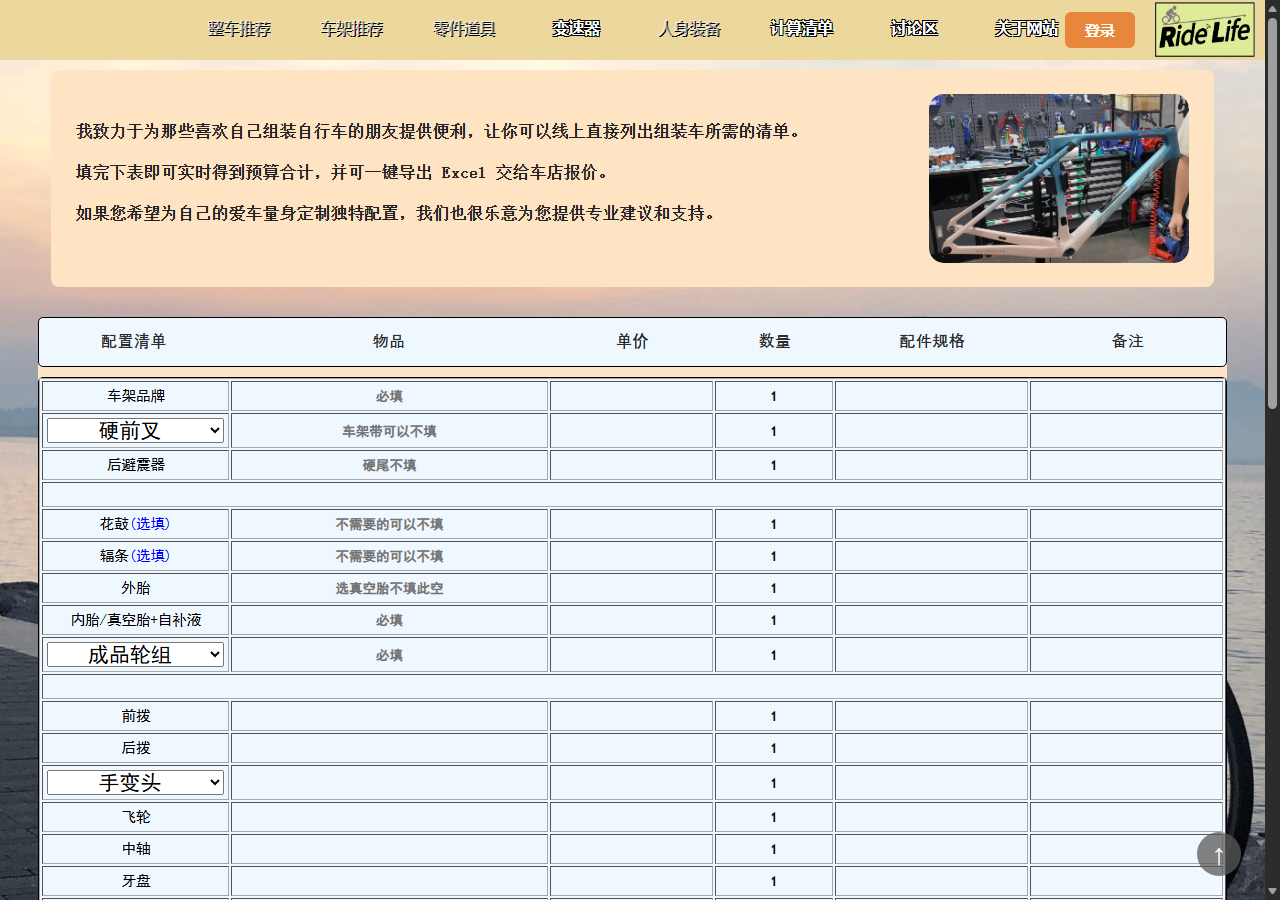
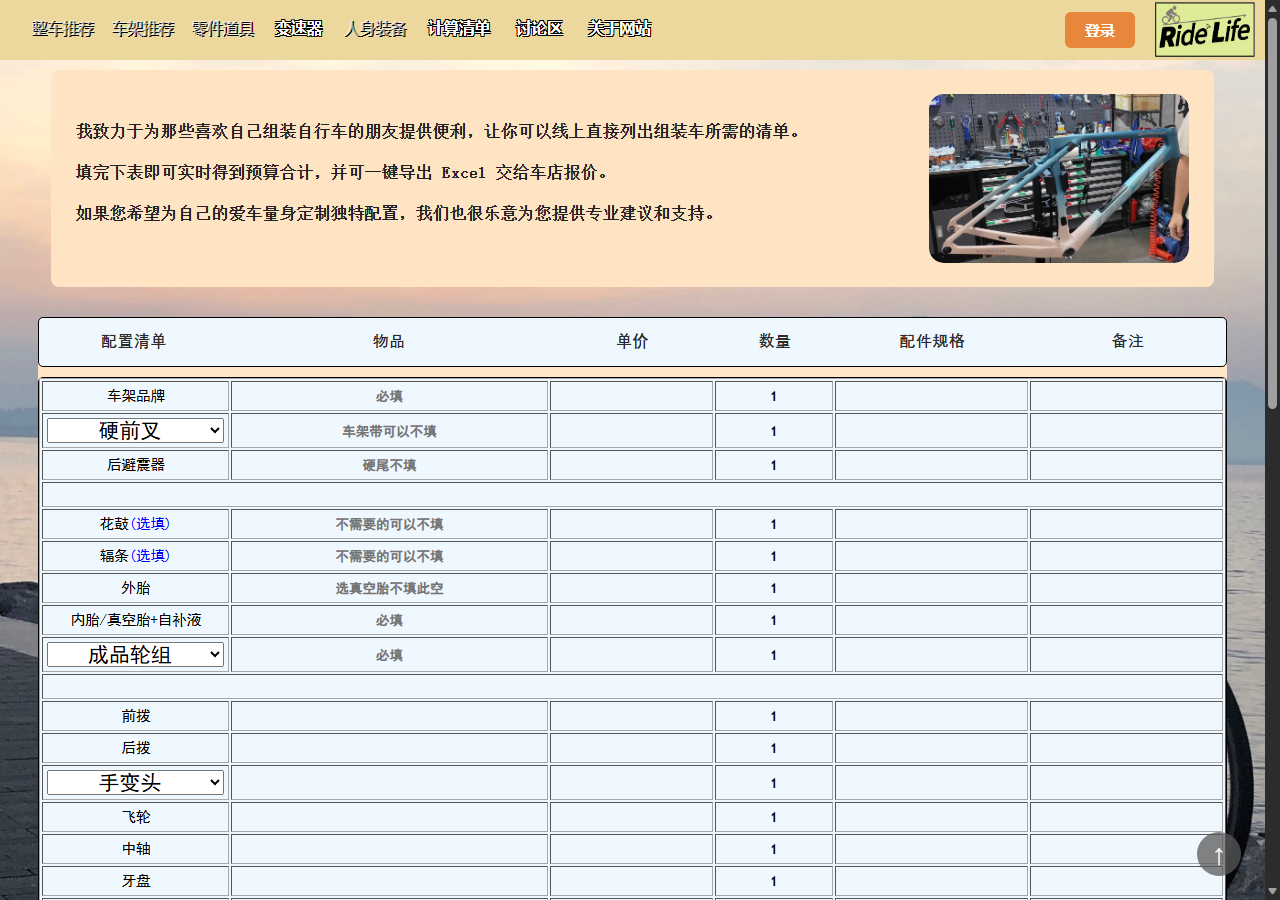
style: 导航菜单改为左对齐（整组靠左，项宽随文字，不再居中）

diff --git a/新代码/src/components/NavBar.vue b/新代码/src/components/NavBar.vue
@@ -167,54 +167,75 @@ onBeforeUnmount(() => document.removeEventListener('click', onDocumentClick))
 }
 
 /* ============================================================
-   PC 自适应（1280 ~ 2560 全宽通用）
-   原样式：7 个菜单项各写死 100px、整体从左侧 40px 开始，
-   在 2560 屏上会挤在左边、和右侧 logo 之间留一大片空白。
-   现在改成：flex 均分 + 居中，两侧留出 logo 和登录区的位置。
+   PC 自适应（1024 ~ 2560 全宽通用）
+   原样式：7 个菜单项各写死 100px、整体从左侧 40px 开始。
+   现在：菜单整组仍靠左排（左对齐，不居中），每项宽度跟着文字走，
+   间隙用 clamp 随屏宽微调，右侧给 logo 和登录区留出固定位置。
    ============================================================ */
 #nav_1 {
   display: flex;
   align-items: center;
-  padding: 0 clamp(16px, 2vw, 40px);
+  justify-content: flex-start;
+  padding: 0 clamp(16px, 2vw, 32px);
   box-sizing: border-box;
 }
 
 #ul_nav {
   flex: 0 1 auto;
   display: flex;
-  justify-content: center;
-  gap: clamp(2px, 0.5vw, 14px);
-  /* 菜单整体居中，宽度自适应：始终给右侧 logo(100px) + 登录区(130px) 留出位置 */
-  width: min(calc(100% - 320px), 980px);
-  margin: 0 auto;
+  justify-content: flex-start;
+  gap: clamp(4px, 0.7vw, 18px);
+  /* 靠左排，不再用 margin:auto 居中；给自己留出右侧 logo(100px)+登录区(130px) 的空间 */
+  width: auto;
+  max-width: calc(100% - 300px);
+  margin: 0;
   padding: 0;
   left: 0;
 }
 
 #ul_nav li {
-  flex: 1 1 0;
-  min-width: 0;
+  flex: 0 1 auto;
   width: auto;
+  min-width: 0;
   left: 0;
+  text-align: left;
 }
 
+/* 文字左对齐，链接宽度跟着文字走（下划线也只压在文字下面） */
 #ul_nav li a,
-#ul_nav li a:link {
-  width: 100%;
+#ul_nav li a:link,
+.nav-todo {
+  width: auto;
+  padding-left: 10px;
+  padding-right: 10px;
+  text-align: left;
+  white-space: nowrap;
 }
 
 /* 1280~1440 之间字号收一点，7 个菜单不会挤在一起 */
 @media (max-width: 1440px) {
+  #ul_nav {
+    gap: 10px;
+  }
+
   #ul_nav li a,
   .nav-todo {
     font-size: 17px;
+    padding-left: 8px;
+    padding-right: 8px;
   }
 }
 
 @media (max-width: 1280px) {
+  #ul_nav {
+    gap: 6px;
+  }
+
   #ul_nav li a,
   .nav-todo {
     font-size: 15.5px;
+    padding-left: 6px;
+    padding-right: 6px;
   }
 }
 </style>

diff --git a/新代码/src/assets/legacy/导航栏.css b/新代码/src/assets/legacy/导航栏.css
@@ -23,7 +23,7 @@
 #ul_nav li{
     opacity: 1;
     font-size: 20px;
-    font-family: "微软雅黑";
+    font-family: "Arial", sans-serif;
     font-weight: bold;
     position: relative;
     width: 100px;

diff --git a/新代码/项目结构说明.md b/新代码/项目结构说明.md
@@ -289,7 +289,7 @@ npm run server       # Express 会自动托管 dist/，直接访问 http://local
 | 位置 | 内容 |
 | --- | --- |
 | `src/assets/base.css` | 全局基线：`min-width: 1000px`、`img max-width`、长单词换行、`scrollbar-gutter` |
-| `components/NavBar.vue` | 导航从"逐项写死 100px + 左对齐"改成 flex 均分居中，两侧给 logo 和登录区留位 |
+| `components/NavBar.vue` | 导航从"逐项写死 100px"改成"整组靠左 + 每项宽度随文字 + gap 用 clamp 随屏宽微调"，右侧给 logo 和登录区留位 |
 | `components/FooterBar.vue` | `.div1` 固定高度 + 浮动 → flex 两端布局，表格 left 归零 |
 | `views/ForumView.vue` | 讨论区 80% → `min(1100px, 92vw)`；底部评论条 50% → 居中 `min(760px, 94vw)` |
 | `views/CalculatorView.vue` | 1200px 固定表格 → 流体表格 + colgroup 百分比列；表头从 space-around → 与列同宽的 grid；字号 clamp |
